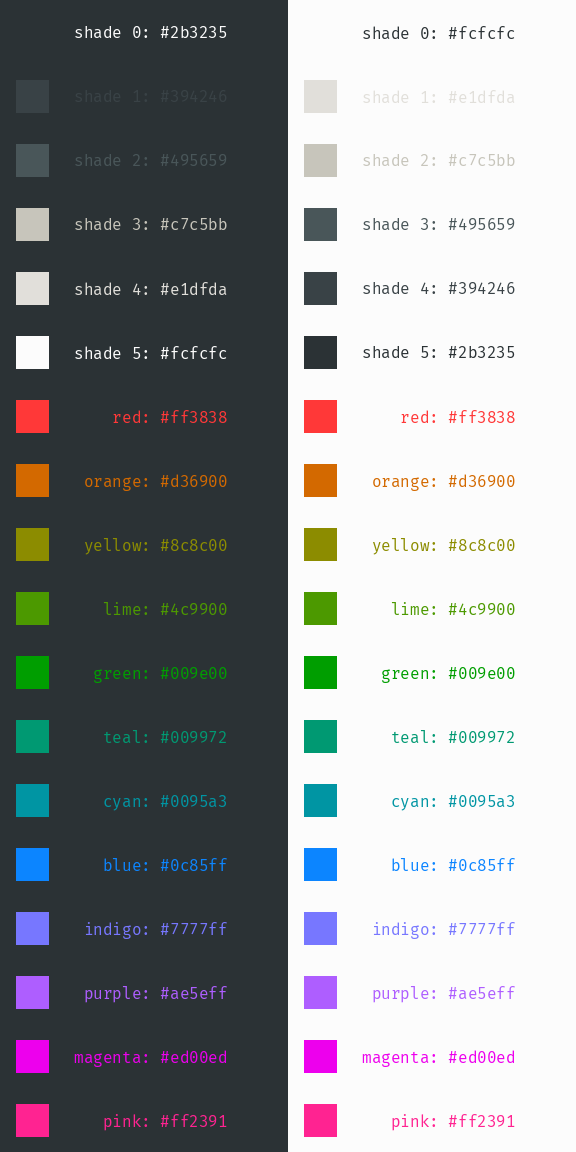
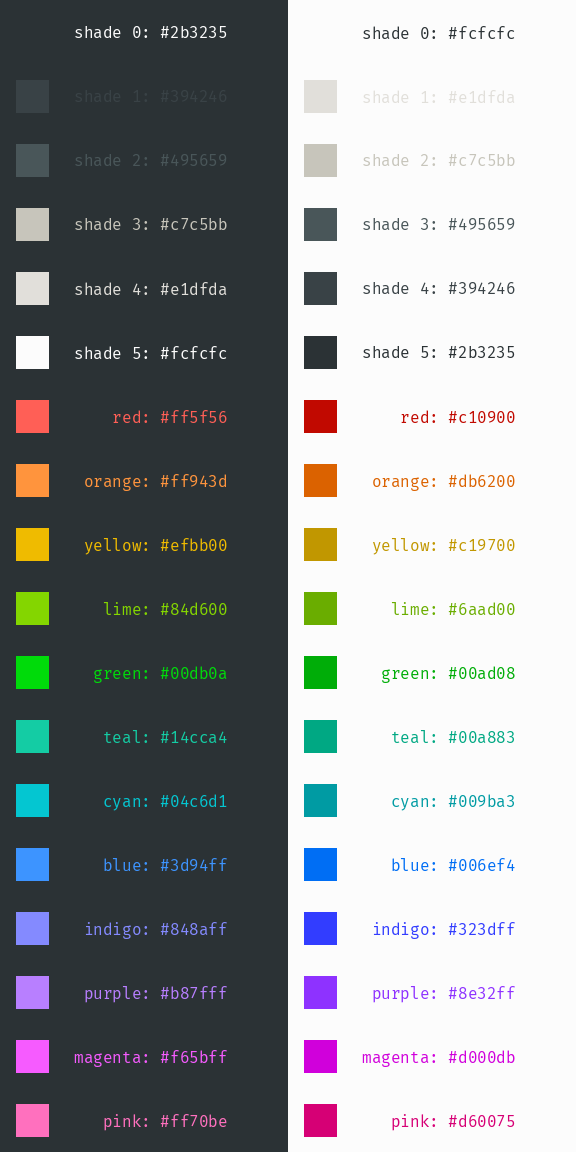
colors: Update luminances

diff --git a/colors.py b/colors.py
@@ -16,13 +16,18 @@ import yaml
 # than the black and two shades darker than the light using a constant contrast
 # ratio.
 #   ie: black:grey1 == grey1:grey2 == grey2:grey3 == grey3:grey4 == grey4:white
-# The hues are slightly shifted as it progresses. Afterwards, it determines the
-# midway luminance between the black and white.
+# The hues are slightly shifted as it progresses.
+
+# In the original implementation, determined the midway luminance between the
+# black and white.
 #   ie: black:middle == middle:white
-# This should provide consistent readability between the dark and light themes.
+# This would provide consistent readability between the dark and light themes.
 # Using the midway luminance and a list of user-provided hues, it finds the
 # closest shade of that hue to the target luminance. The end result is a happy
 # color scheme.
+
+# The current implementation uses a separate list of hand-picked luminances for
+# each theme.
 
 
 def hex2rgb(code):
